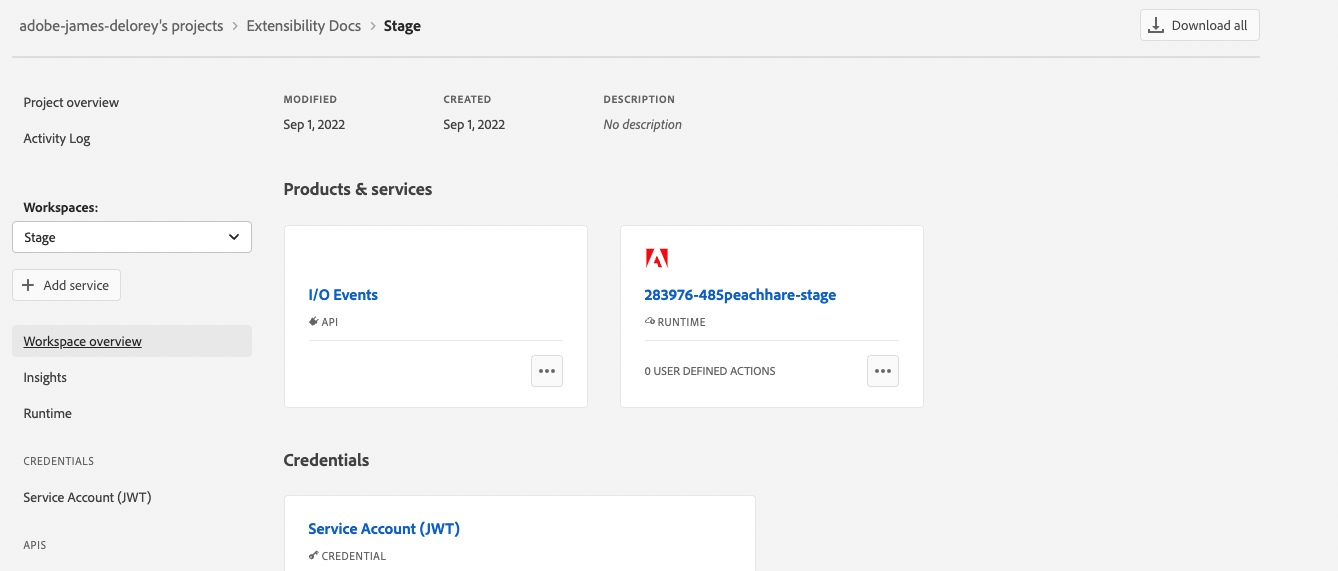
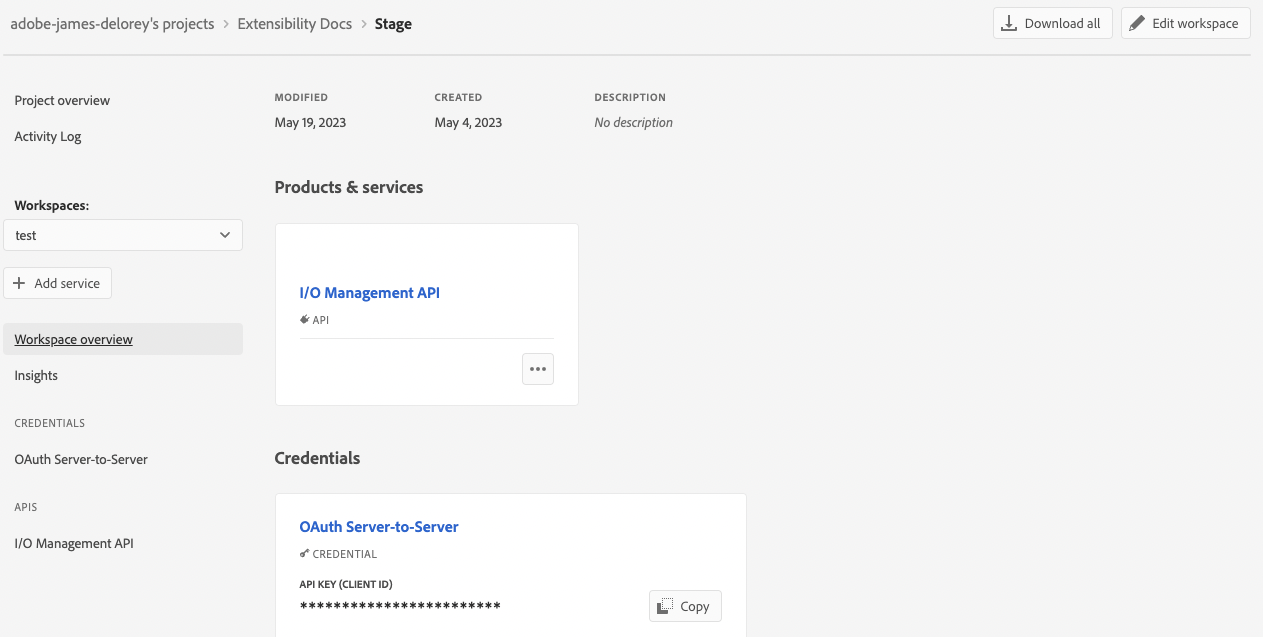
CEXT-1823: Add Oauth authorization

diff --git a/src/pages/get-started/configure-commerce.md b/src/pages/get-started/configure-commerce.md
@@ -9,20 +9,13 @@ After you have created an [App Builder project](./project-setup.md) and [install
 
 ## Begin configuring events on Commerce
 
-You must configure Commerce to communicate with your project. You will need two files that you downloaded from the the Adobe Developer Console.
-
-*  [Private key](./project-setup.md#set-up-a-project)
-*  [Workspace configuration](./project-setup.md#download-the-workspace-configuration-file)
+You must configure Commerce to communicate with your project. You will need a configuration file that you downloaded from the Adobe Developer Console.
+*  
+* [Workspace configuration](./project-setup.md#download-the-workspace-configuration-file)
 
 1. In the Commerce Admin, navigate to **Stores** > Settings > **Configuration** > **Adobe Services** > **Adobe I/O Events** > **General configuration**. The following screen displays.
 
 ![General configuration](../_images/general-configuration.png)
-
-1. Copy and paste the contents of the `private.key` file into the **Service Account Private Key** field. Use the following command to copy the contents.
-
-   ```bash
-   cat config/private.key | pbcopy
-   ```
 
 1. Copy the contents of the `<workspace-name>.json` file into the **Adobe I/O Workspace Configuration** field.
 
@@ -32,7 +25,7 @@ You must configure Commerce to communicate with your project. You will need two 
 
 ## Create an event provider and complete the Commerce configuration
 
-You cannot create an event provider until you have configured and saved a private key, workspace file, and instance ID values.
+You cannot create an event provider until you have configured and saved workspace file and instance ID values.
 
 1. Run the following command to create an event provider:
 
@@ -101,7 +94,7 @@ Commerce provides two sources for events: observers and plugins. You must specif
 
    ![Select the events to subscribe to](../_images/config-event-registration.png)
 
-1. Optionally create a new JWT credential. Then click **Next**.
+1. Optionally create a new OAuth credential. Then click **Next**.
 
 1. Update the **Event registration name** and **Event registration description** fields. In the **How to receive events** section, under **Option 2**, select the runtime action you created in [Set up App Builder and define a runtime action](./project-setup.md#set-up-app-builder-and-define-a-runtime-action).
 

diff --git a/src/pages/get-started/project-setup.md b/src/pages/get-started/project-setup.md
@@ -45,11 +45,9 @@ To get started with Adobe I/O Events, you must:
 
    ![Select IO events](../_images/add-io-management.png)
 
-1. On the **Configure API** page, select the **Generate a key pair** option and click **Generate keypair**. The `config.zip` file downloads automatically.
+1. On the **Configure API** page, select the **OAuth Server-to-Server** option and click **Save configured API**.
 
-   ![generate a key pair](../_images/generate-key-pair.png)
-
-   **Note**: If you want to manually [create a public key certificate](https://developer.adobe.com/developer-console/docs/guides/authentication/JWT/JWTCertificate/), you can select the **Upload your public key** option.
+   ![Setup OAuth](../_images/setup-api-oauth.png)
 
 1. Click **Save configured API**.
 
@@ -60,8 +58,6 @@ To get started with Adobe I/O Events, you must:
 1. On the **Add an API** page, filter by **Experience Cloud** and select **Adobe I/O Events for Adobe Commerce**. Then click **Next**.
 
 1. On the **Configure API** page, click **Save configured API**.
-
-1. Unzip the downloaded `config.zip` file. The extracted `config` directory should contain a `certificate_pub.crt` and a `private.key` file. The `private.key` file is required to configure the Commerce Admin.
 
 ## Download the workspace configuration file
 
